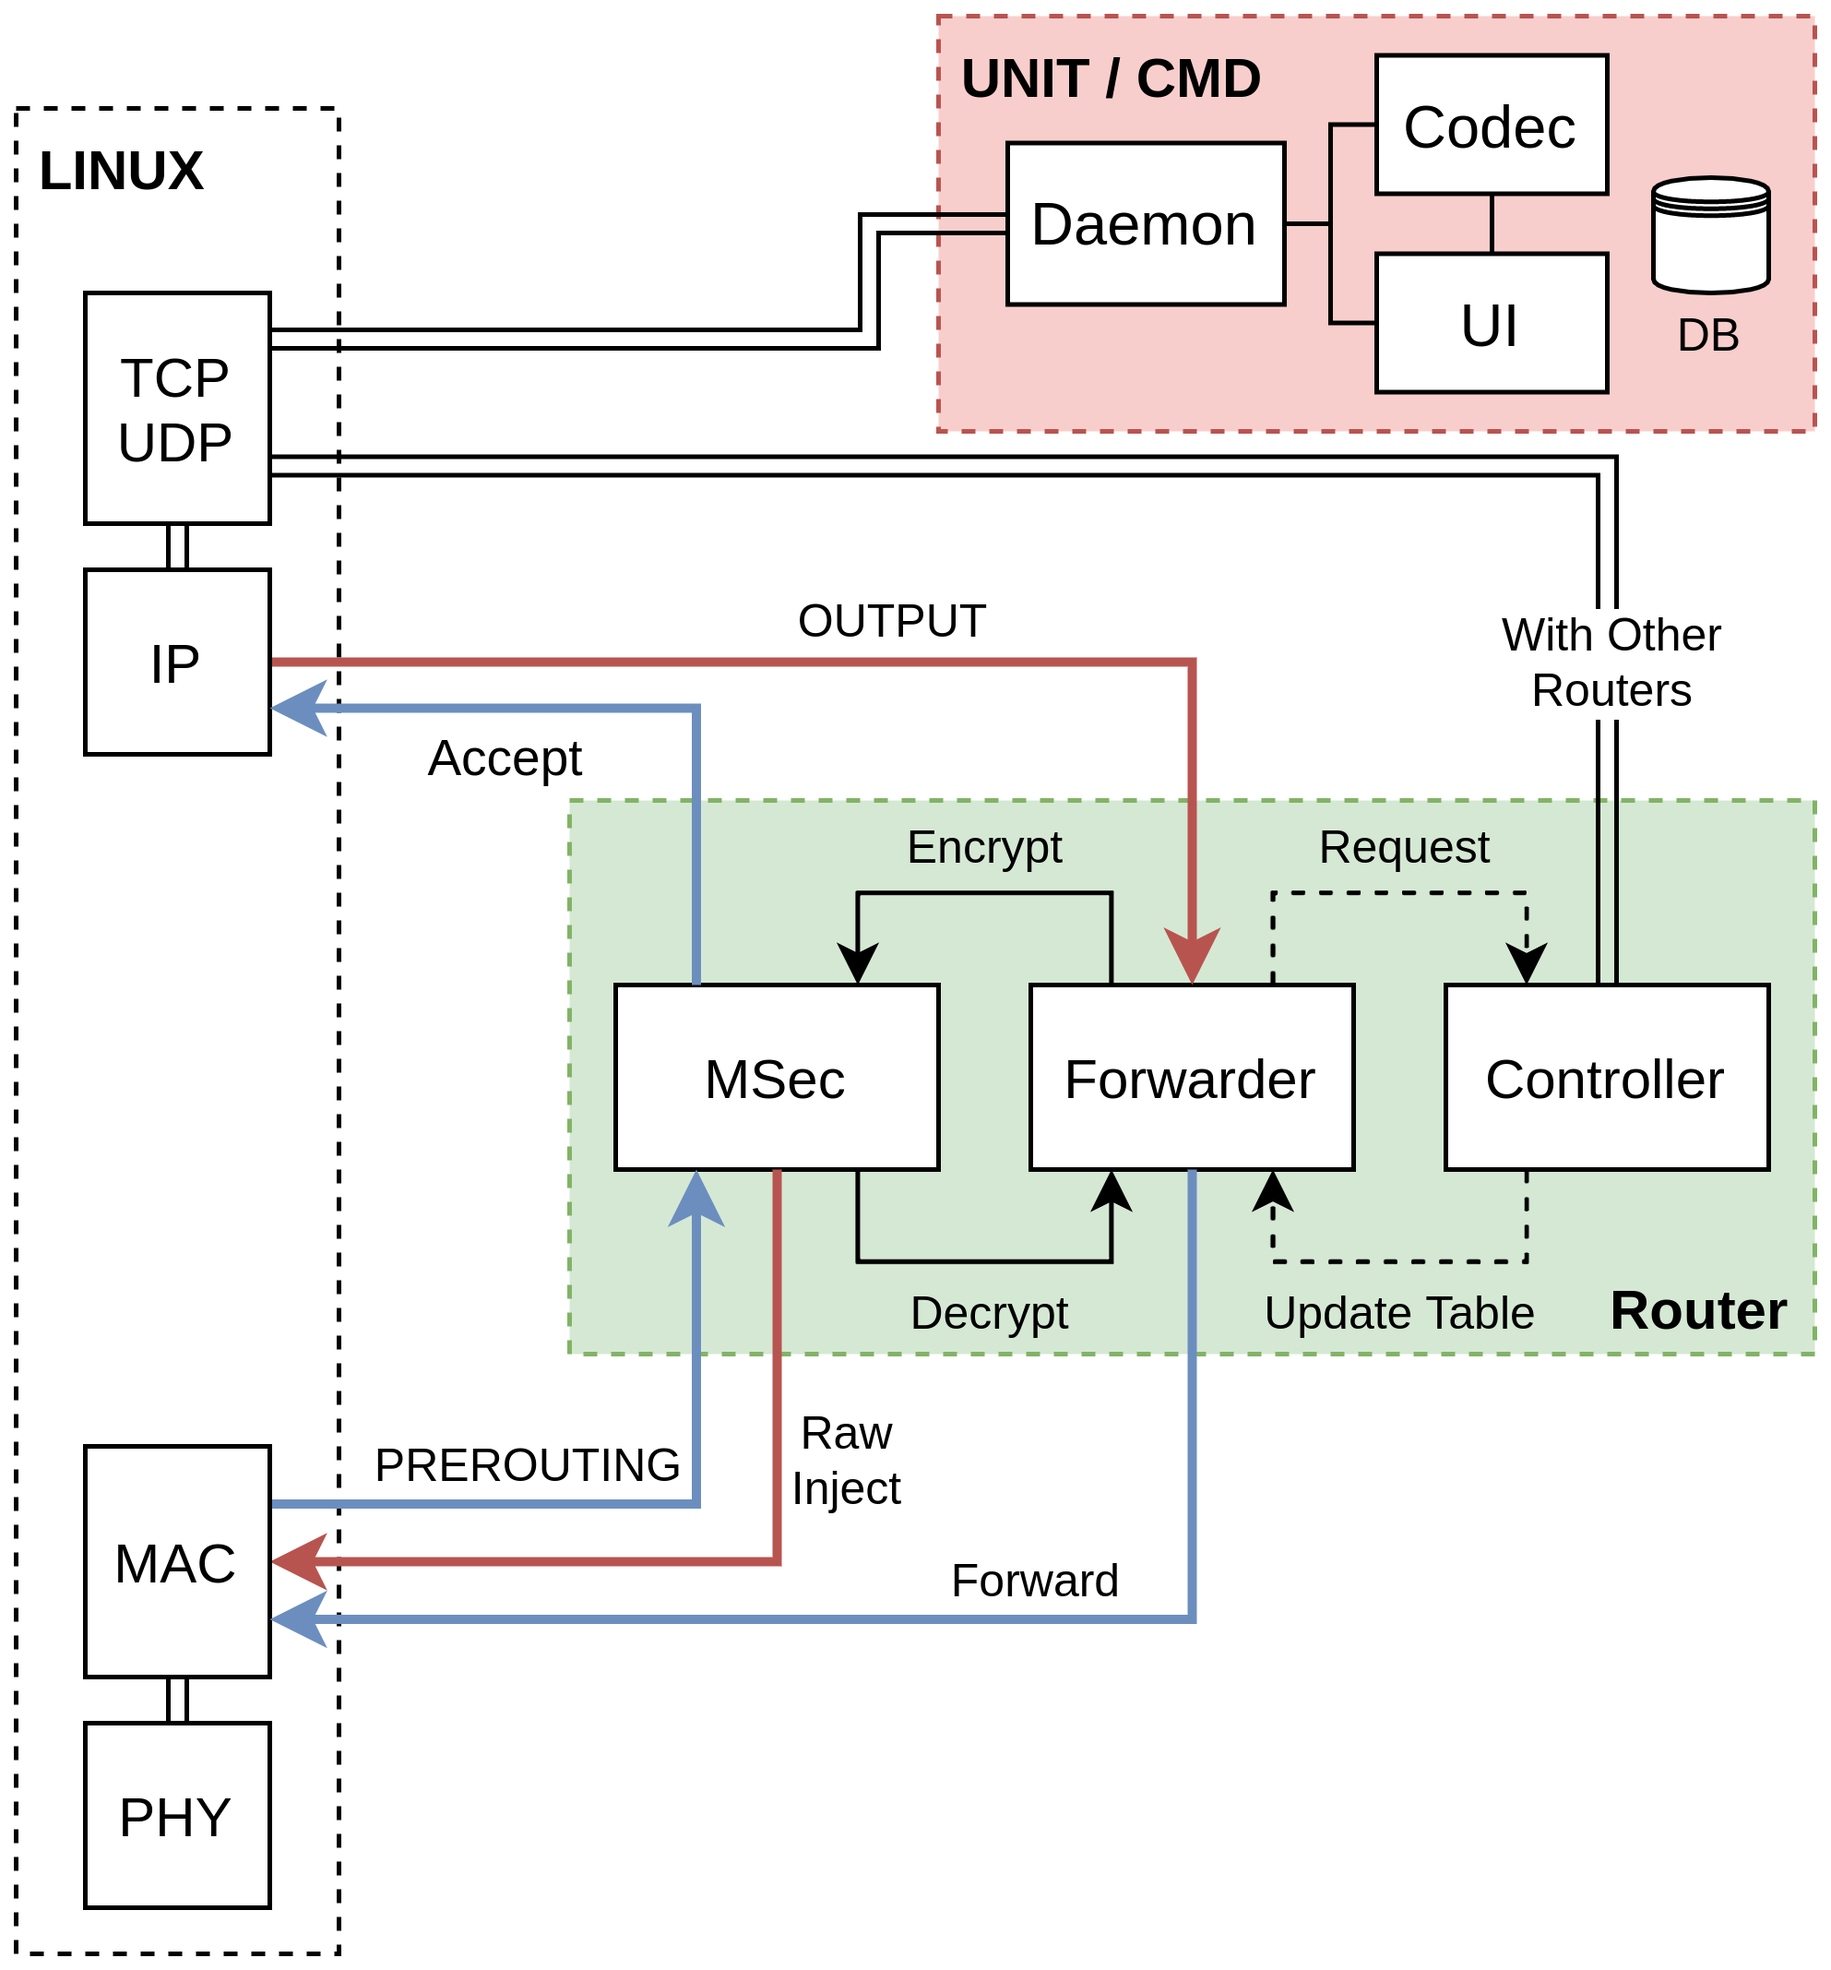
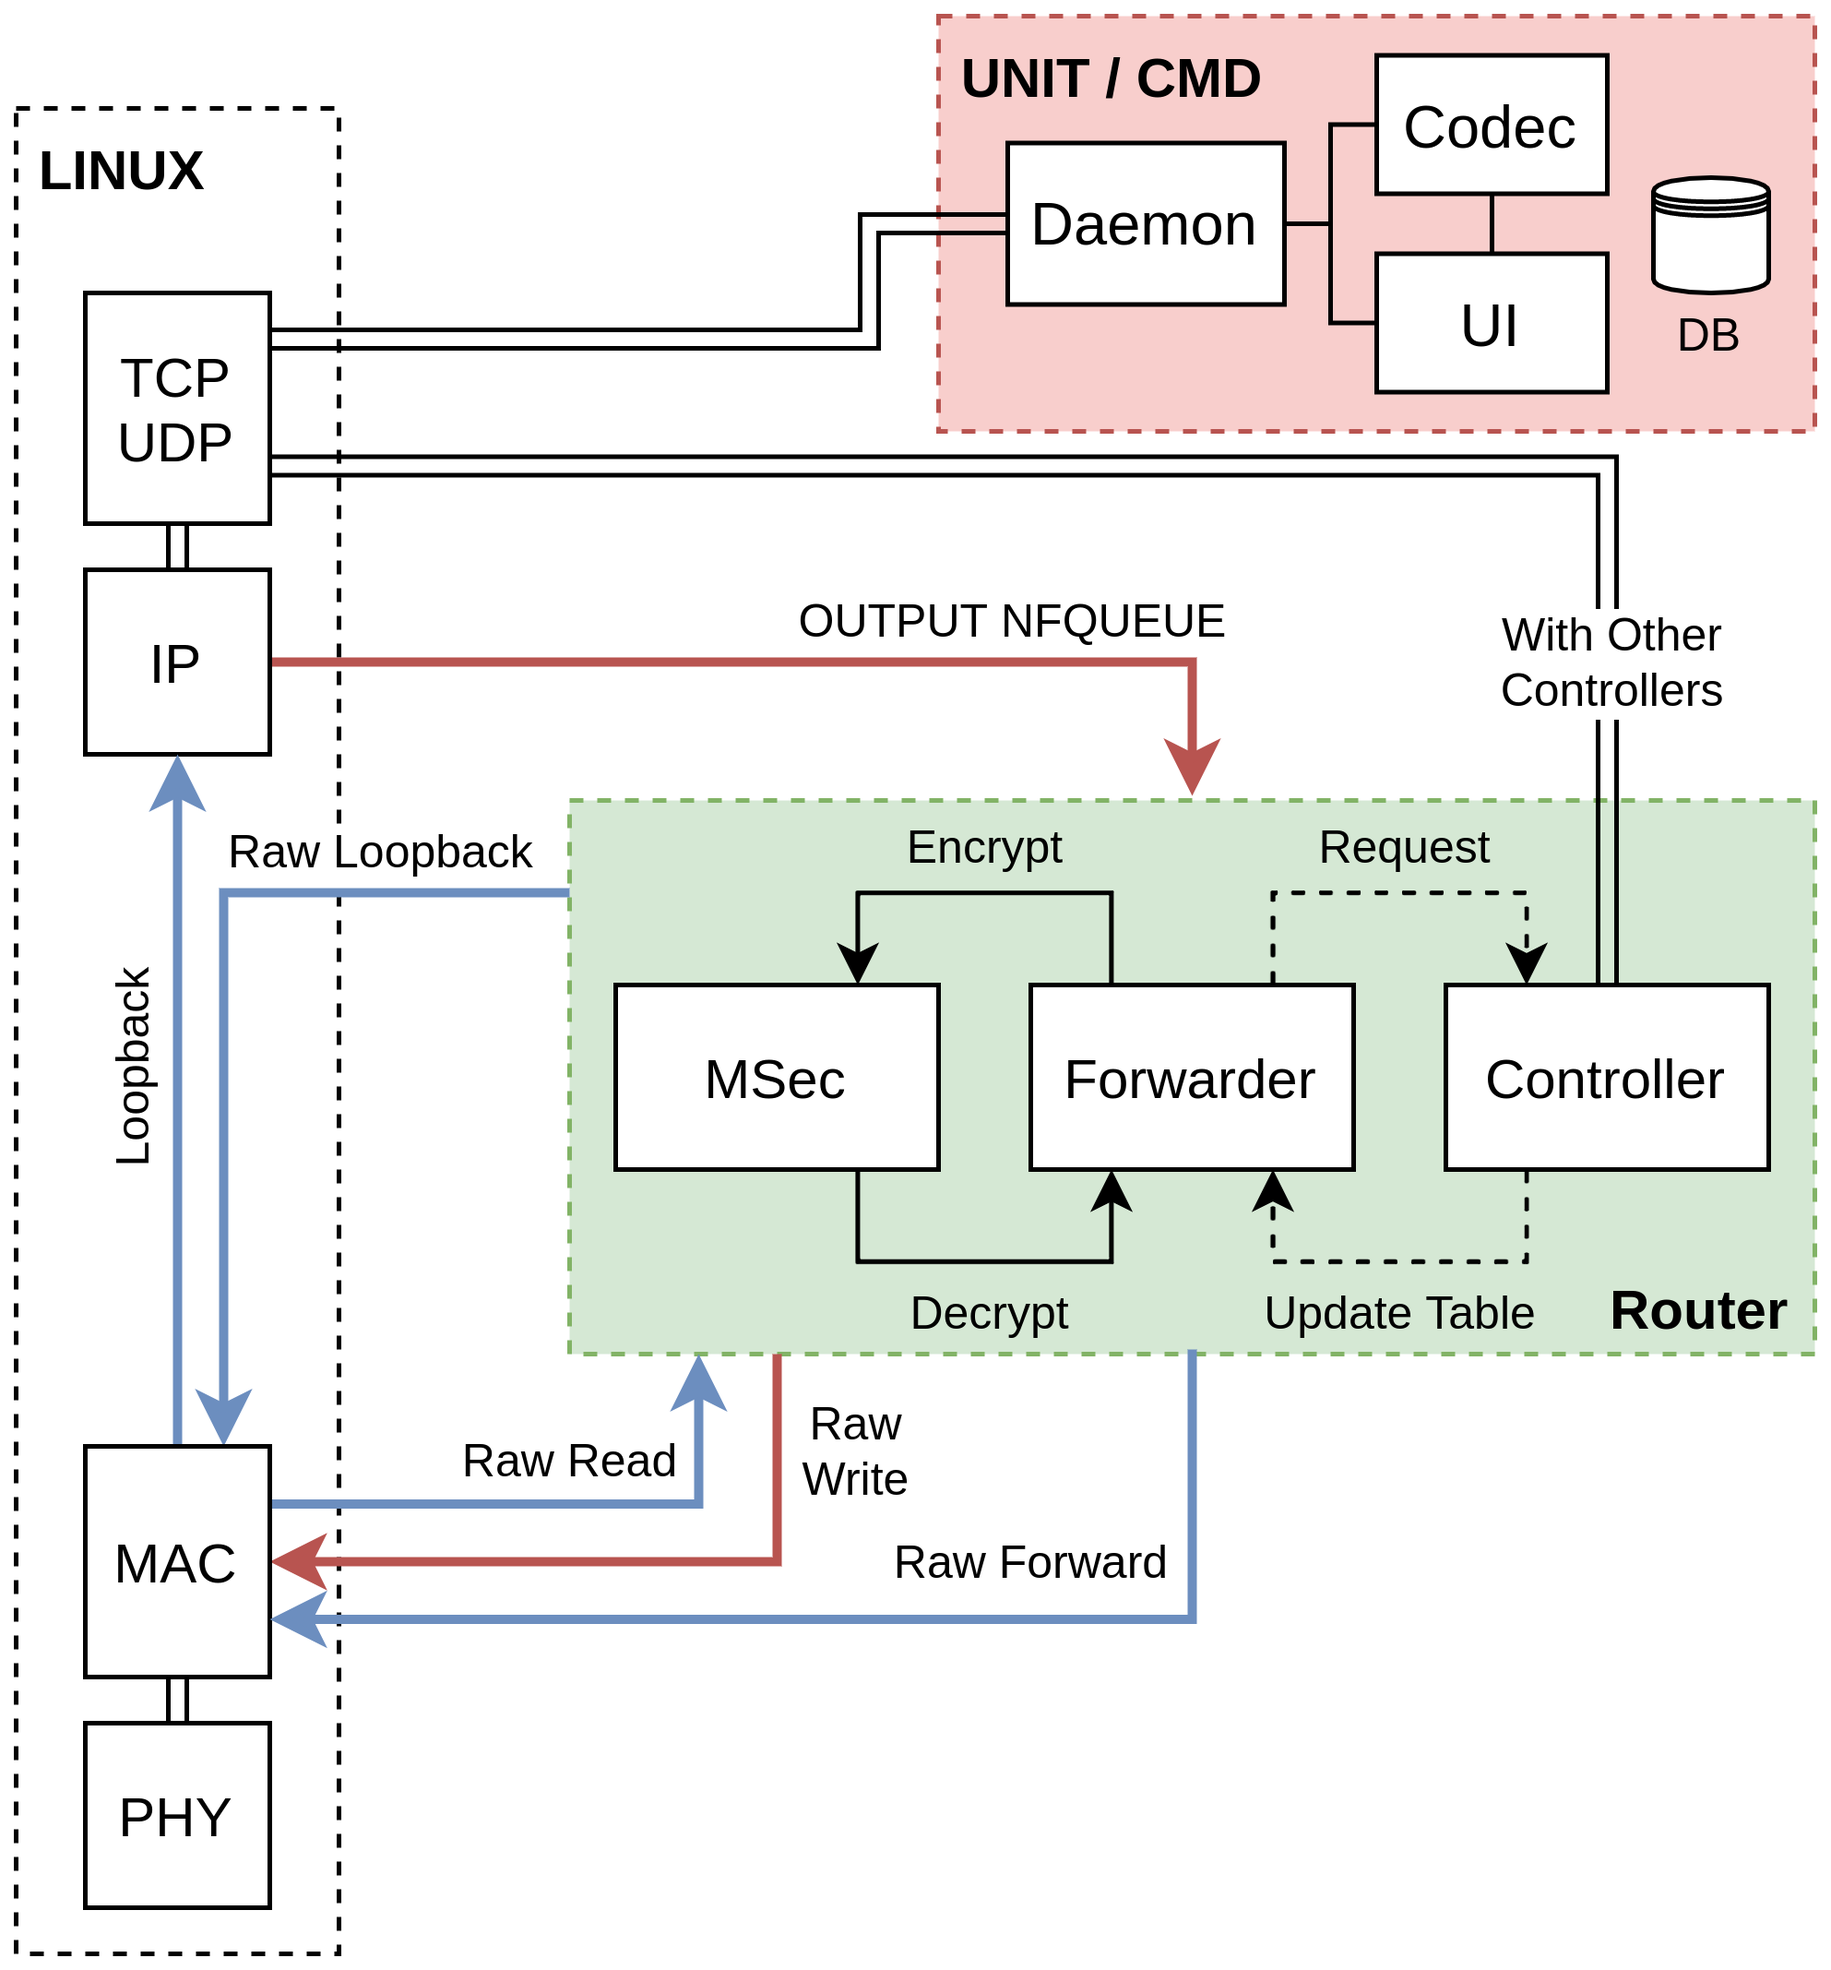
router: reads and writes packets

diff --git a/src/router/main.go b/src/router/main.go
@@ -9,11 +9,15 @@ import (
 	"github.com/AkihiroSuda/go-netfilter-queue"
 	"github.com/akamensky/argparse"
 	"github.com/jsimonetti/rtnetlink/rtnl"
+
+	"github.com/mdlayher/ethernet"
+	"github.com/mdlayher/raw"
 )
 
 func main() {
 	parser := argparse.NewParser("router", "Sets forwarding table in linux to route packets in adhoc-network")
-	ifaceName := parser.String("i", "iface", &argparse.Options{Required: false, Help: "Interface name", Default: "wlan0"})
+	ifaceName := parser.String("i", "iface", &argparse.Options{Required: true, Help: "Interface name"})
+	loIfaceName := parser.String("", "lo", &argparse.Options{Required: false, Help: "Loopback interface name", Default: "lo"})
 	queueNumber := parser.Int("q", "queue-num", &argparse.Options{Required: false, Help: "Packets queue number", Default: 0})
 
 	err := parser.Parse(os.Args)
@@ -28,23 +32,80 @@ func main() {
 		log.Fatal("couldn't get interface ", *ifaceName, " error:", err)
 	}
 
+	loIface, err := net.InterfaceByName(*loIfaceName)
+	if err != nil {
+		log.Fatal("couldn't get interface ", *loIfaceName, " error:", err)
+	}
+
 	log.Println("interface:", *ifaceName)
 	log.Println("queue number:", *queueNumber)
 
 	// connect to rtnl
-	conn, err := rtnl.Dial(nil)
+	rtnlConn, err := rtnl.Dial(nil)
 	if err != nil {
 		log.Fatal("can't establish netlink connection: ", err)
 	}
-	defer conn.Close()
+	defer rtnlConn.Close()
 
 	// open interface
-	err = conn.LinkUp(iface)
+	err = rtnlConn.LinkUp(iface)
 	if err != nil {
 		log.Fatal("can't link-up the interface", err)
 	}
 	log.Print(*ifaceName, " is up")
 
+	// open lo interface
+	err = rtnlConn.LinkUp(loIface)
+	if err != nil {
+		log.Fatal("can't link-up lo interface", err)
+	}
+	log.Print(*loIfaceName, " is up")
+
+	// connect raw to iface
+	ifaceRawConn, err := raw.ListenPacket(iface, msecEtherType, nil)
+	if err != nil {
+		log.Fatalf("failed to listen: %v", err)
+	}
+	defer ifaceRawConn.Close()
+
+	go readAllRaw(ifaceRawConn, iface.MTU, loIface)
+	writeAllRaw(rtnlConn, iface, ifaceRawConn)
+}
+
+// Make use of an unassigned EtherType to differentiate between MSec traffic and other traffic
+// https://www.iana.org/assignments/ieee-802-numbers/ieee-802-numbers.xhtml
+const msecEtherType = 0x7031
+
+// readAllRaw continuously receives messages over a connection, then repeats it over loopback. The messages
+// may be up to the interface's MTU in size.
+func readAllRaw(ifaceRawConn net.PacketConn, mtu int, loIface *net.Interface) {
+	var f ethernet.Frame
+	b := make([]byte, mtu)
+
+	loConn, err := raw.ListenPacket(loIface, msecEtherType, nil)
+	if err != nil {
+		log.Fatalf("failed to listen: %v", err)
+	}
+	defer loConn.Close()
+
+	for {
+		n, addr, err := ifaceRawConn.ReadFrom(b)
+		if err != nil {
+			log.Fatalf("failed to receive message: %v", err)
+		}
+
+		// Unpack Ethernet II frame into Go representation.
+		if err := (&f).UnmarshalBinary(b[:n]); err != nil {
+			log.Fatalf("failed to unmarshal ethernet frame: %v", err)
+		}
+
+		log.Printf("[%s] %s", addr.String(), string(f.Payload))
+
+		writeRaw(loConn, loIface.HardwareAddr, ethernet.Broadcast, decrypt(f.Payload))
+	}
+}
+
+func writeAllRaw(rtnlConn *rtnl.Conn, iface *net.Interface, ifaceRawConn *raw.Conn) {
 	// get packets from kernel
 	nfq, err := netfilter.NewNFQueue(0, 200, netfilter.NF_DEFAULT_PACKET_SIZE)
 	if err != nil {
@@ -54,21 +115,50 @@ func main() {
 	defer nfq.Close()
 	packets := nfq.GetPackets()
 
-	for true {
+	for {
 		select {
 		case p := <-packets:
-			handlePacket(p, conn, iface)
+			fmt.Println(p.Packet)
+			p.SetVerdict(netfilter.NF_ACCEPT)
+
+			writeRaw(ifaceRawConn, iface.HardwareAddr, ethernet.Broadcast, encrypt(p.Packet.Data()))
 		}
 	}
 }
 
-func handlePacket(p netfilter.NFPacket, conn *rtnl.Conn, iface *net.Interface) {
-	// TODO
-	// get the destination from the packet,
-	// hold it pack untill you get its routing (next hops),
-	// set the next hop in the linux forwarding table see (https://pkg.go.dev/github.com/jsimonetti/rtnetlink@v0.0.0-20210122163228-8d122574c736/rtnl#Conn.RouteReplace),
-	// then accept the packet
+// writeRaw continuously sends a message over a connection at regular intervals,
+// sourced from specified hardware address.
+func writeRaw(ifaceRawConn net.PacketConn, source net.HardwareAddr, dest net.HardwareAddr, msg []byte) {
+	// Message is broadcast to all machines in same network segment.
+	f := &ethernet.Frame{
+		Destination: dest,
+		Source:      source,
+		EtherType:   msecEtherType,
+		Payload:     msg,
+	}
 
-	fmt.Println(p.Packet)
-	p.SetVerdict(netfilter.NF_ACCEPT) // accept all for now
+	b, err := f.MarshalBinary()
+	if err != nil {
+		log.Fatalf("failed to marshal ethernet frame: %v", err)
+	}
+
+	// Required by Linux, even though the Ethernet frame has a destination.
+	// Unused by BSD.
+	addr := &raw.Addr{
+		HardwareAddr: dest,
+	}
+
+	if _, err := ifaceRawConn.WriteTo(b, addr); err != nil {
+		log.Fatalf("failed to send message: %v", err)
+	}
+}
+
+func encrypt(msg []byte) []byte {
+	msg[0]++
+	return msg
+}
+
+func decrypt(msg []byte) []byte {
+	msg[0]--
+	return msg
 }

diff --git a/src/router/README.md b/src/router/README.md
@@ -13,13 +13,13 @@ $ go build
 ## Run
 ```
 # redirect all packets to queue 0
-$ sudo iptables -A OUTPUT -j NFQUEUE --queue-num 0
+$ sudo iptables -t filter -A OUTPUT -j NFQUEUE --queue-num 0
 
-# start router and attach to interface "wlan0"
-$ sudo ./router --iface wlan0 --queue-num 0
+# start router and attach to interface "sta1-wlan0"
+$ sudo ./router -i sta1-wlan0
 
 # you must undo the redirect, otherwise all packets will stuck
-$ sudo iptables -D OUTPUT -j NFQUEUE --queue-num 0
+$ sudo iptables -t filter -D OUTPUT -j NFQUEUE --queue-num 0
 
 # list all options
 $ ./router --help
